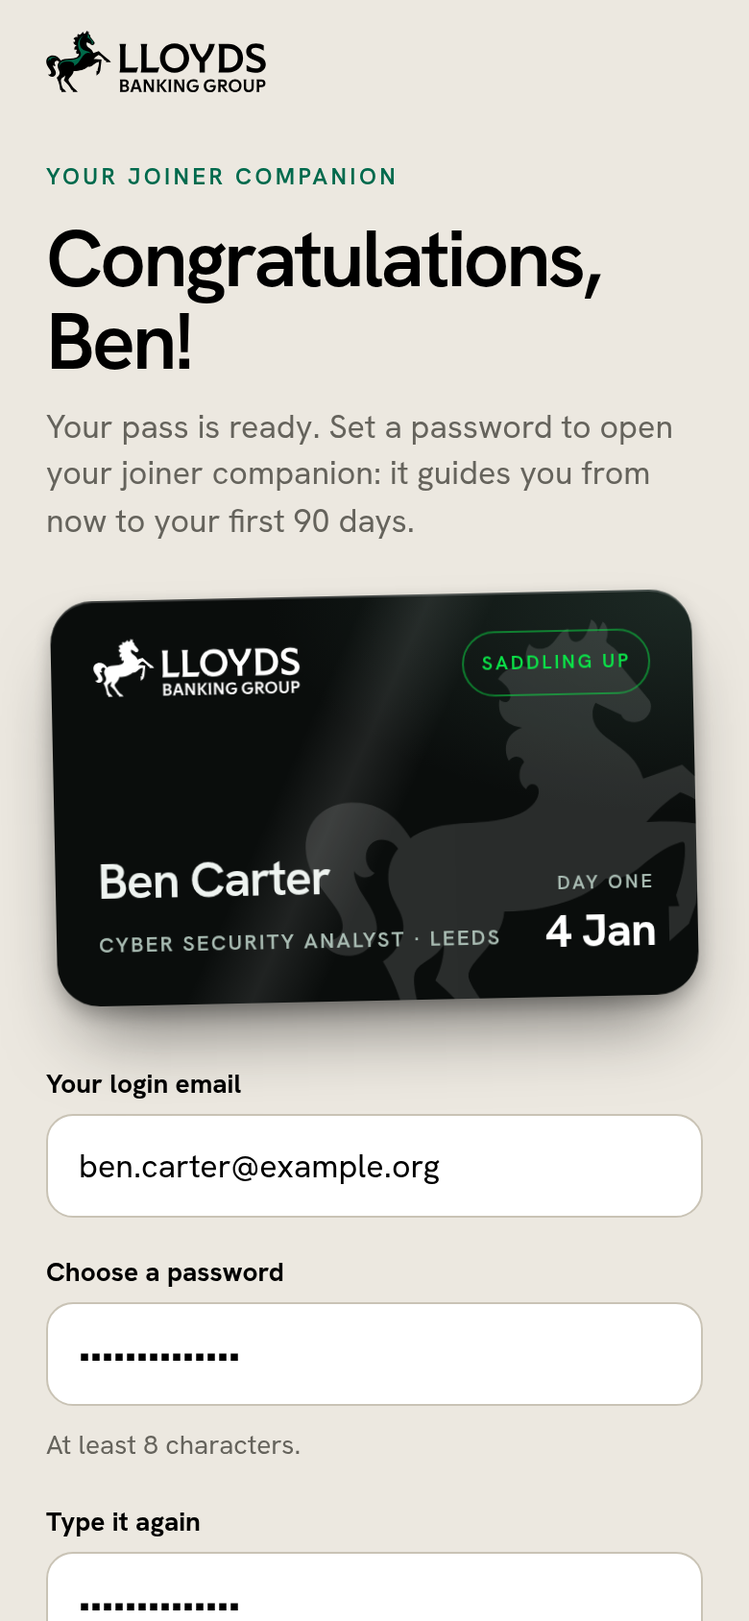
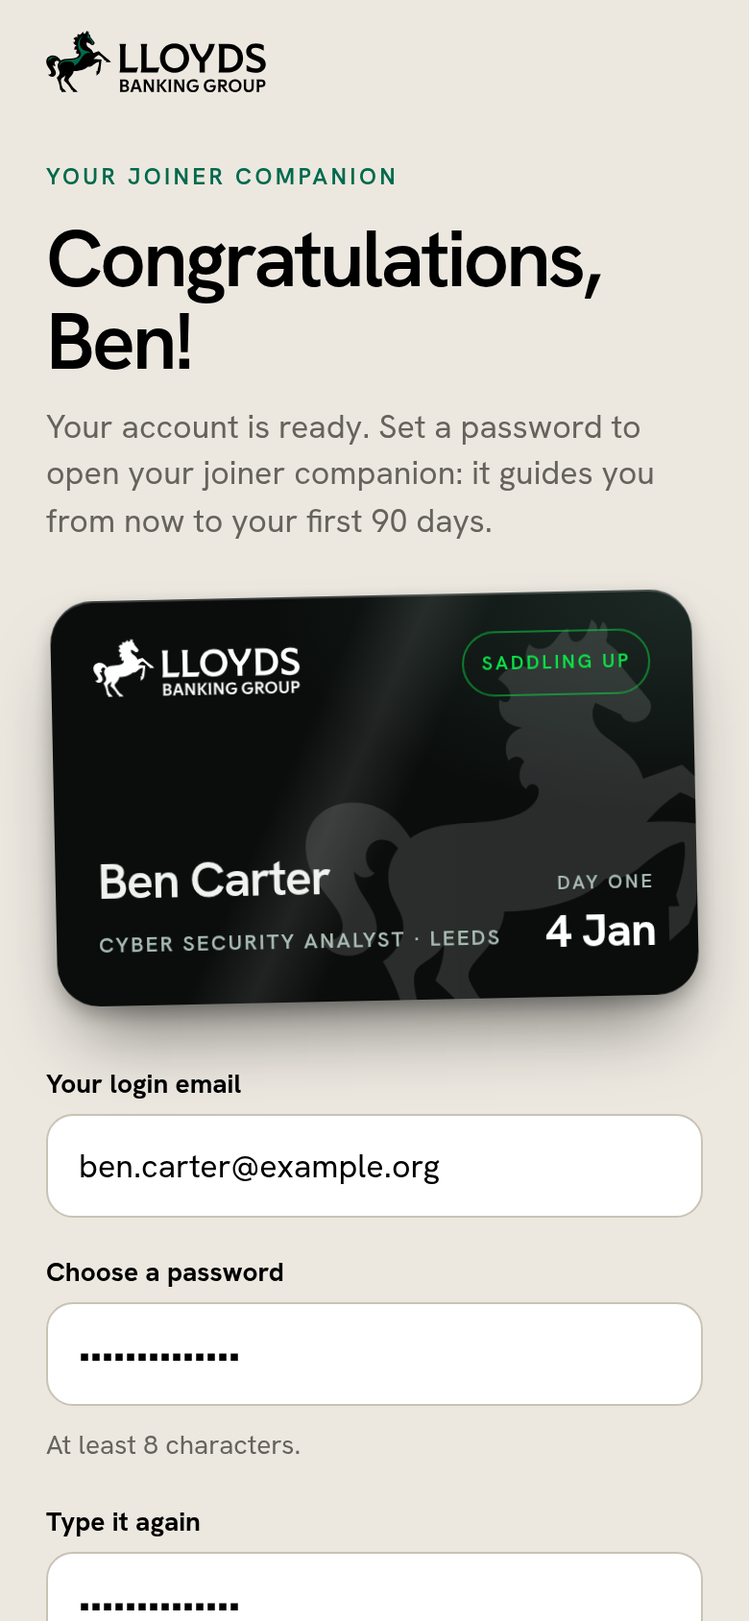
Reword the joiner app and pitch deck: no 'pass' for app access, no Preview labels (#29)
App: activation says 'account', login chip says 'Joiner app', photo page says
'Your photo' (building pass kept), phase 4 and 5 lose the Preview pill and note.
Deck: wording feedback on slides 1 to 13, new feature-summary closing slide,
screenshots recaptured for activation and phases 4 and 5.

Changed region(s): [[0.0615, 0.2464, 0.8923, 0.3389]]

diff --git a/docs/pitch-deck/index.html b/docs/pitch-deck/index.html
@@ -214,10 +214,10 @@ h2 { font-size: 72px; }
   <img class="horse r fade" src="assets/horse-white.svg" alt="">
   <img class="logo-big r" src="assets/lbg-logo-white.svg" alt="Lloyds Banking Group">
   <h1 class="r" style="--d:.15s">From offer<br>to Day 90.</h1>
-  <p class="lead r" style="--d:.35s">A joining companion that guides the recruit, and gives their recruiter and manager something useful to do.</p>
+  <p class="lead r" style="--d:.35s">A joining companion that guides the recruit, and makes communication between them, their recruiter and their manager easier.</p>
   <div class="pill r" style="--d:.55s"><i></i> LaunchPad '26 · Team destrict9</div>
   <div class="phone phone2 r pop" style="--d:.5s"><img src="assets/shots/08-ben-home.png" alt="Ben's home screen"></div>
-  <div class="phone r pop" style="--d:.7s"><img src="assets/shots/07-ben-welcome.png" alt="Ben's welcome screen with his pass card"></div>
+  <div class="phone r pop" style="--d:.7s"><img src="assets/shots/07-ben-welcome.png" alt="Ben's welcome screen"></div>
 </section>
 
 <!-- 2. PROBLEM -->
@@ -235,27 +235,26 @@ h2 { font-size: 72px; }
 
 <!-- 3. ANSWER -->
 <section class="slide stone" data-phase="0"
-  data-t="0:25" data-notes="Our answer is one journey in five phases, from offer to Day 90, and three people using it: the recruit on their phone, the recruiter and the hiring manager on a desktop hub. Phases 1 to 3 work end to end, and phases 4 and 5 are previews and we say so. Now let's meet Ben.">
+  data-t="0:25" data-notes="Our answer is one journey in five phases, from offer to Day 90, that keeps the colleague connected and engaged, and three people using it: the recruit on their phone, the recruiter and the hiring manager on a desktop hub. Phases 1 to 3 are shown end to end, followed by 4 and 5. Now let's meet Ben.">
   <img class="chrome-logo r" src="assets/lbg-logo.svg" alt="">
   <div class="head">
     <div class="eyebrow r">Our answer</div>
-    <h2 class="r" style="--d:.1s">One journey. Five phases. Three people.</h2>
+    <h2 class="r" style="--d:.1s">Five phases to keep every colleague connected and engaged.</h2>
   </div>
   <div class="tracker">
     <div class="line r fade" style="--d:.2s"></div>
     <div class="ph r" style="left:0; --d:.5s"><div class="dot">1</div><b>Offer</b><em>Saddling up</em></div>
     <div class="ph r" style="left:260px; --d:.7s"><div class="dot">2</div><b>Getting ready</b><em>Joining the stable</em></div>
     <div class="ph r" style="left:520px; --d:.9s"><div class="dot">3</div><b>First 30 days</b><em>Finding your stride</em></div>
-    <div class="ph r" style="left:780px; --d:1.1s"><div class="dot">4</div><b>30 to 60 days</b><em>Setting your course</em><u>Preview</u></div>
-    <div class="ph r" style="left:1040px; --d:1.3s"><div class="dot">5</div><b>60 to 90 days</b><em>Full horsepower</em><u>Preview</u></div>
+    <div class="ph r" style="left:780px; --d:1.1s"><div class="dot">4</div><b>30 to 60 days</b><em>Setting your course</em></div>
+    <div class="ph r" style="left:1040px; --d:1.3s"><div class="dot">5</div><b>60 to 90 days</b><em>Full horsepower</em></div>
   </div>
-  <div class="roles r" style="--d:1.5s"><span>Recruit · on a phone</span><span>Recruiter · desktop hub</span><span>Hiring manager · desktop hub</span></div>
-  <div class="phone r pop" style="left:1480px; top:290px; --w:330px; --d:.6s"><img src="assets/shots/26-ben-home-photo.png" alt="Ben's home screen with pass card and phase tracker"></div>
+  <div class="phone r pop" style="left:1480px; top:290px; --w:330px; --d:.6s"><img src="assets/shots/26-ben-home-photo.png" alt="Ben's home screen with phase tracker"></div>
 </section>
 
 <!-- 4. RECRUITER ONBOARDS -->
 <section class="slide stone" data-phase="1"
-  data-t="0:35" data-notes="Phase 1. Jordan is a recruiter. This is her applicants list, with the tiles up top and a table underneath. Ben Carter has accepted a verbal offer, so he's marked Successful. One click on Onboard, and a confirmation says exactly what will happen: Ben gets his conditional offer by email, a chat opens between them, and his account exists but stays switched off until he activates it.">
+  data-t="0:35" data-notes="Phase 1. Jordan is a recruiter. This is her applicants list, with the tiles up top and a table underneath. Ben Carter has accepted a verbal offer, so he's marked Successful. One click on Onboard, and a confirmation says exactly what will happen: Ben gets his conditional offer by email, a chat opens between them, and his account is created, ready for him to activate.">
   <img class="chrome-logo r" src="assets/lbg-logo.svg" alt="">
   <div class="actors r" style="--d:.3s"><div class="actor"><i>JE</i><span>Jordan Ellis<small>Recruiter</small></span></div></div>
   <div class="head"><div class="eyebrow r">Phase 1 · Offer</div><h2 class="r" style="--d:.1s">Jordan onboards Ben in one click.</h2></div>
@@ -264,29 +263,29 @@ h2 { font-size: 72px; }
   <ul class="points" style="left:1340px; top:310px; width:490px; gap:34px">
     <li class="r" style="--d:.8s">Ready to onboard<small>Ben: “Successful”, verbal offer accepted</small></li>
     <li class="r" style="--d:1.4s">One click, one offer<small>Sends the conditional offer and opens a private chat</small></li>
-    <li class="r" style="--d:2s">Account switched off<small>until Ben activates it himself</small></li>
+    <li class="r" style="--d:2s">Account created<small>Ben activates it himself when he is ready</small></li>
   </ul>
 </section>
 
 <!-- 5. BEN ARRIVES -->
 <section class="slide stone" data-phase="1"
-  data-t="0:30" data-notes="Ben gets an email. In production that's an email service, here it's a demo mailbox page, and we say so. The link works once and expires; we only store a hash of it. He sets a password, and lands on his welcome screen with his pass card: phase 1 of 5, Offer, with the line 'Saddling up', a tip and the one-minute Epic Journey film. The pass card fills in as he moves through the phases, with his start date as the card number.">
+  data-t="0:30" data-notes="Ben gets an email. In production that's an email service, here it's a demo mailbox page, and we say so. The link works once and expires; we only store a hash of it. He sets a password, and lands in his app account: phase 1 of 5, Offer, with the line 'Saddling up', a tip and the one-minute Epic Journey film. His card fills in as he moves through the phases, with his start date as the card number.">
   <img class="chrome-logo r" src="assets/lbg-logo.svg" alt="">
   <div class="actors r" style="--d:.3s"><div class="actor ben"><i>BC</i><span>Ben Carter<small>Recruit</small></span></div></div>
-  <div class="head"><div class="eyebrow r">Phase 1 · Offer</div><h2 class="r" style="--d:.1s">Ben gets an email, then a pass.</h2></div>
+  <div class="head"><div class="eyebrow r">Phase 1 · Offer</div><h2 class="r" style="--d:.1s">Ben gets an invitation to the app.</h2></div>
   <div class="win r slide-l" style="left:90px; top:380px; --w:760px; --d:.4s"><div class="bar"><b></b><b></b><b></b><em>Demo mailbox</em></div><img src="assets/shots/04-mailbox.png" alt="Demo mailbox with Ben's offer email"></div>
   <div class="cap r" style="left:90px; top:955px; --w:760px; --d:.9s; font-size:22px"><b>A stand-in for email</b></div>
   <div class="arrow" style="left:880px; top:600px; --d:1s"><svg viewBox="0 0 120 24"><path d="M4 12 H112 M98 2 L112 12 L98 22"/></svg></div>
   <div class="phone r pop" style="left:1030px; top:290px; --w:300px; --d:1.1s"><img src="assets/shots/06-ben-activate-filled.png" alt="Activation screen"></div>
   <div class="cap r" style="left:1030px; top:955px; --w:300px; --d:1.3s; font-size:22px"><b>One-time link</b></div>
   <div class="arrow" style="left:1370px; top:600px; width:90px; --d:1.45s"><svg viewBox="0 0 120 24"><path d="M4 12 H112 M98 2 L112 12 L98 22"/></svg></div>
-  <div class="phone r pop" style="left:1500px; top:290px; --w:300px; --d:1.5s"><img src="assets/shots/07-ben-welcome.png" alt="Welcome screen with pass card"></div>
-  <div class="cap r" style="left:1500px; top:955px; --w:300px; --d:1.7s; font-size:22px"><b>Pass card and film</b></div>
+  <div class="phone r pop" style="left:1500px; top:290px; --w:300px; --d:1.5s"><img src="assets/shots/07-ben-welcome.png" alt="Welcome screen"></div>
+  <div class="cap r" style="left:1500px; top:955px; --w:300px; --d:1.7s; font-size:22px"><b>His app account</b></div>
 </section>
 
 <!-- 6. OFFER + SCREENING -->
 <section class="slide stone" data-phase="1"
-  data-t="0:40" data-notes="Ben reads his conditional offer, terms and conditions, with advice not to resign yet. Accepting moves him to screening. We don't collect any personal details ourselves: they go straight to the screening company, ClearPath. When he confirms, he sees honest progress: what's being checked, the usual timeframe, and that no news is normal. And watch Jordan's table, on the right. It changed to 'Result needed' by itself, live.">
+  data-t="0:40" data-notes="Ben reads his conditional offer, terms and conditions, with advice not to hand in his notice yet. Accepting moves him to screening. We don't collect any personal details ourselves: they go straight to the screening company, ClearPath. When he confirms, he sees honest progress: what's being checked, the usual timeframe, and that no news is normal. And watch Jordan's table, on the right. It changed to 'Result needed' by itself, live.">
   <img class="chrome-logo r" src="assets/lbg-logo.svg" alt="">
   <div class="actors r" style="--d:.3s"><div class="actor ben"><i>BC</i><span>Ben Carter<small>Recruit</small></span></div><div class="actor"><i>JE</i><span>Jordan Ellis<small>Recruiter</small></span></div></div>
   <div class="head"><div class="eyebrow r">Phase 1 · Offer</div><h2 class="r" style="--d:.1s">Honest progress while the checks run.</h2></div>
@@ -302,7 +301,7 @@ h2 { font-size: 72px; }
 
 <!-- 7. RESULT UNLOCKS -->
 <section class="slide stone" data-phase="2"
-  data-t="0:35" data-notes="Here's the live moment. In real life the screening company sends this result. Jordan records it: Clear. And on Ben's phone, with no refresh, the card changes to 'Your unconditional offer is ready'. Now it's safe to resign, and accepting opens a chat with his hiring manager. Note the internal note that Jordan can add never reaches Ben.">
+  data-t="0:35" data-notes="Here's the live moment. In real life the screening company sends this result. Jordan records it: Clear. And on Ben's phone, the card changes to 'Your unconditional offer is ready'. Now it's safe to hand in his notice, and accepting opens a chat with his hiring manager. Note the internal note that Jordan can add never reaches Ben.">
   <img class="chrome-logo r" src="assets/lbg-logo.svg" alt="">
   <div class="actors r" style="--d:.3s"><div class="actor"><i>JE</i><span>Jordan Ellis<small>Recruiter</small></span></div><div class="actor ben"><i>BC</i><span>Ben Carter<small>Recruit</small></span></div></div>
   <div class="head"><div class="eyebrow r">Phase 2 · Getting ready</div><h2 class="r" style="--d:.1s">Jordan records the result. Ben’s phone changes.</h2></div>
@@ -311,22 +310,22 @@ h2 { font-size: 72px; }
   <div class="arrow" style="left:1080px; top:600px; --d:1.5s"><svg viewBox="0 0 120 24"><path d="M4 12 H112 M98 2 L112 12 L98 22"/></svg></div>
   <div class="phone r pop" style="left:1230px; top:290px; --w:330px; --d:1.7s"><img src="assets/shots/19-ben-unconditional-ready.png" alt="Ben's phone: unconditional offer ready"></div>
   <div class="live r pop" style="left:1590px; top:300px; --d:2.2s">Live</div>
-  <div class="cap r" style="left:1590px; top:400px; --w:240px; --d:2.2s; text-align:left; font-size:26px; font-weight:600">No refresh.<br>Now it’s safe to resign.</div>
+  <div class="cap r" style="left:1590px; top:400px; --w:240px; --d:2.2s; text-align:left; font-size:26px; font-weight:600">Now it’s safe to hand in your notice.</div>
 </section>
 
 <!-- 8. GETTING READY -->
 <section class="slide stone" data-phase="2"
-  data-t="0:35" data-notes="Ben accepts, and phase 2 unlocks early choices. He picks a laptop, with a recommendation for his role, changeable until a week before he starts. He adds a pass photo, so reception can print his building pass before Day 1, and it shows on his pass card. And the choice flows to Sam, his manager, who sees it in his checklist. We'll come back to that.">
+  data-t="0:35" data-notes="Ben accepts, and phase 2 unlocks early choices. He picks a laptop, with a recommendation for his role, changeable until a week before he starts. He adds a photo, so reception can print his building pass before Day 1, and it shows on his home screen. And the choice flows to Sam, his manager, who sees it in his checklist. We'll come back to that.">
   <img class="chrome-logo r" src="assets/lbg-logo.svg" alt="">
   <div class="actors r" style="--d:.3s"><div class="actor ben"><i>BC</i><span>Ben Carter<small>Recruit</small></span></div></div>
-  <div class="head"><div class="eyebrow r">Phase 2 · Getting ready</div><h2 class="r" style="--d:.1s">Early choices, so Day 1 has no queue.</h2></div>
+  <div class="head"><div class="eyebrow r">Phase 2 · Getting ready</div><h2 class="r" style="--d:.1s">Early choices, so Day 1 has no delays.</h2></div>
   <div class="phone r pop" style="left:90px; top:290px; --w:300px; --d:.4s"><img src="assets/shots/23-ben-laptop-selected.png" alt="Choose your laptop"></div>
   <div class="cap r" style="left:90px; top:955px; --w:300px; --d:.9s; font-size:22px"><b>Choose a laptop</b></div>
-  <div class="phone r pop" style="left:440px; top:290px; --w:300px; --d:.8s"><img src="assets/shots/26-ben-home-photo.png" alt="Pass card with photo"></div>
-  <div class="cap r" style="left:440px; top:955px; --w:300px; --d:1.3s; font-size:22px"><b>Add a pass photo</b></div>
+  <div class="phone r pop" style="left:440px; top:290px; --w:300px; --d:.8s"><img src="assets/shots/26-ben-home-photo.png" alt="Home screen with photo"></div>
+  <div class="cap r" style="left:440px; top:955px; --w:300px; --d:1.3s; font-size:22px"><b>Add a photo</b></div>
   <ul class="points" style="left:850px; top:300px; width:980px; gap:30px">
     <li class="r" style="--d:1s">Recommended for his role<small>HP EliteBook for a Cyber Security Analyst. He can change it until a week before he starts.</small></li>
-    <li class="r" style="--d:1.5s">A selfie for his building pass<small>Reception prints it ahead of Day 1, and it shows on his pass card. He can retake it later.</small></li>
+    <li class="r" style="--d:1.5s">A photo for his building pass<small>Reception prints it ahead of Day 1, and it shows on his home screen. He can retake it later.</small></li>
   </ul>
   <div class="win r pop" style="left:850px; top:700px; --w:960px; --d:2.1s"><div class="bar"><b></b><b></b><b></b><em>Sam’s Day 1 checklist</em></div><div class="crop" style="height:230px"><img src="assets/shots/36-sam-checklist-ben.png" style="left:-670px; top:-212px; width:1630px" alt="Sam's checklist showing Ben chose the HP EliteBook"></div></div>
   <div class="tag lime r pop" style="left:1380px; top:652px; --d:2.6s">…and it flows to Sam</div>
@@ -334,10 +333,10 @@ h2 { font-size: 72px; }
 
 <!-- 9. MANAGER CHAT -->
 <section class="slide stone" data-phase="2"
-  data-t="0:35" data-notes="Accepting also opens a private chat with his hiring manager, so Ben meets Sam before he meets Sam. Ben asks what to read before he starts. On the left is Ben's phone, on the right is Sam's hub. Sam sees the unread badge, a typing indicator while Ben types, and replies. It's all live over websockets, and each chat is private between the joiner and that person.">
+  data-t="0:35" data-notes="Accepting also opens a private chat with his hiring manager, so Ben connects with Sam before he meets him. Ben asks what to read before he starts. On the left is Ben's phone, on the right is Sam's hub. Sam sees the unread badge, a typing indicator while Ben types, and replies. It's all live over websockets, and each chat is private between the joiner and that person.">
   <img class="chrome-logo r" src="assets/lbg-logo.svg" alt="">
   <div class="actors r" style="--d:.3s"><div class="actor ben"><i>BC</i><span>Ben Carter<small>Recruit</small></span></div><div class="actor sam"><i>SR</i><span>Sam Reid<small>Hiring manager</small></span></div></div>
-  <div class="head"><div class="eyebrow r">Phase 2 · Getting ready</div><h2 class="r" style="--d:.1s">Meet your manager before you meet.</h2></div>
+  <div class="head"><div class="eyebrow r">Phase 2 · Getting ready</div><h2 class="r" style="--d:.1s">Connect with your manager before Day 1.</h2></div>
   <div class="phone r pop" style="left:90px; top:290px; --w:320px; --d:.4s"><img src="assets/shots/34-ben-reply-arrived.png" alt="Ben's chat with Sam"></div>
   <div class="win r slide-r" style="left:480px; top:290px; --w:1050px; --d:.7s"><div class="bar"><b></b><b></b><b></b><em>Manager hub · Messages</em></div><img src="assets/shots/33-sam-replied.png" alt="Sam's inbox with Ben's chat"></div>
   <div class="live r pop" style="left:1390px; top:232px; --d:1.4s">Live</div>
@@ -350,10 +349,10 @@ h2 { font-size: 72px; }
 
 <!-- 10. CHAIN REACTION -->
 <section class="slide stone" data-phase="2"
-  data-t="0:40" data-notes="This is the chain reaction. Sam's Day 1 checklist has due dates counted back from the start date, and Ben's laptop choice is already in it. Some items tick themselves: the welcome message ticked the moment Sam replied. Sam fills in the Day 1 details: start time, where to meet, who meets him, dress code, a number to call. He hits Share, and on Ben's phone, a 'Your first day' panel appears at the top of his guides. One person's action unlocks the next person's view.">
+  data-t="0:40" data-notes="This is the chain reaction. Sam's Day 1 checklist has due dates counted back from the start date, and Ben's laptop choice is already in it. Some items tick themselves: the welcome message ticked the moment Sam replied. Sam fills in the Day 1 details: start time, where to meet, who meets him, dress code, a number to call. He hits Share, and on Ben's phone, a 'Your first day' panel appears at the top of his guides. The manager's action is shown straight to the recruit.">
   <img class="chrome-logo r" src="assets/lbg-logo.svg" alt="">
   <div class="actors r" style="--d:.3s"><div class="actor sam"><i>SR</i><span>Sam Reid<small>Hiring manager</small></span></div><div class="actor ben"><i>BC</i><span>Ben Carter<small>Recruit</small></span></div></div>
-  <div class="head"><div class="eyebrow r">Phase 2 · Getting ready</div><h2 class="r" style="--d:.1s">One action unlocks the next person’s view.</h2></div>
+  <div class="head"><div class="eyebrow r">Phase 2 · Getting ready</div><h2 class="r" style="--d:.1s">Sam shares Day 1 details. Ben sees them straight away.</h2></div>
   <div class="win r slide-l" style="left:90px; top:290px; --w:960px; --d:.4s"><div class="bar"><b></b><b></b><b></b><em>Manager hub · Day 1 checklist</em></div><img src="assets/shots/37-sam-day1-form.png" alt="Sam fills in Day 1 details"></div>
   <div class="tag r pop" style="left:130px; top:880px; --d:1.2s">Due dates count back from the start date</div>
   <div class="arrow" style="left:1075px; top:600px; --d:1.7s"><svg viewBox="0 0 120 24"><path d="M4 12 H112 M98 2 L112 12 L98 22"/></svg></div>
@@ -375,20 +374,20 @@ h2 { font-size: 72px; }
   <ul class="points" style="left:850px; top:300px; width:980px; gap:34px">
     <li class="r" style="--d:1.1s">Answers only from our guides<small>Fictional documents, not real bank policy.</small></li>
     <li class="r" style="--d:1.6s">Shows its sources<small>Every answer links back to the guide it came from.</small></li>
-    <li class="r" style="--d:2.1s">Knows Sam’s Day 1 details<small>“9:30am, ground floor reception, Sam meets you.”</small></li>
+    <li class="r" style="--d:2.1s">Knows Ben’s Day 1 details<small>“9:30am, ground floor reception, and you’re meeting Sam.”</small></li>
     <li class="r" style="--d:2.6s">Hands over to a person<small>When it can’t answer, or the question is about Ben’s own case.</small></li>
   </ul>
 </section>
 
 <!-- 12. AFTER DAY 1 -->
 <section class="slide stone" data-phase="3"
-  data-t="0:20" data-notes="After Day 1 it keeps going. Ruby is on Day 16: phase 3, what to do now, the guides, and mandatory training. Tom is 6 weeks in: phase 4, setting goals and a development plan. Phase 5 is growing your Lloyds career. Phases 4 and 5 are previews and we say so on the screen.">
+  data-t="0:20" data-notes="After Day 1 it keeps going. Ruby is on Day 16: phase 3, what to do now, the guides, and mandatory training. Tom is 6 weeks in: phase 4, setting goals and a development plan. Phase 5 is growing your Lloyds career.">
   <img class="chrome-logo r" src="assets/lbg-logo.svg" alt="">
   <div class="actors r" style="--d:.3s"><div class="actor"><i>RA</i><span>Ruby · Day 16<small>Recruit</small></span></div><div class="actor"><i>TB</i><span>Tom · Day 44<small>Recruit</small></span></div></div>
   <div class="head"><div class="eyebrow r">Phases 3 to 5</div><h2 class="r" style="--d:.1s">After Day 1, it keeps going.</h2></div>
   <ul class="points" style="left:90px; top:320px; width:520px; gap:30px">
     <li class="r" style="--d:1.3s;font-size:28px">What to do now<small style="font-size:23px">Mandatory training, guides, the 30-day check-in.</small></li>
-    <li class="r" style="--d:1.8s;font-size:28px">Goals and a plan<small style="font-size:23px">Phases 4 and 5 are previews, labelled as such.</small></li>
+    <li class="r" style="--d:1.8s;font-size:28px">Goals and a plan<small style="font-size:23px">Setting goals, a development plan and growing a career.</small></li>
   </ul>
   <div class="phone r pop" style="left:680px; top:290px; --w:300px; --d:.4s"><img src="assets/shots/44-ruby-phase3.png" alt="Phase 3: First 30 days"></div>
   <div class="cap r" style="left:680px; top:955px; --w:300px; --d:.9s; font-size:22px"><b>3 · Finding your stride</b></div>

diff --git a/app/public/joiner/phase.html b/app/public/joiner/phase.html
@@ -20,8 +20,6 @@
     .phases a[aria-current="page"] .now { color: inherit; opacity: .8; }
     .jhead h1 { display: flex; flex-wrap: wrap; align-items: center; column-gap: var(--lbg-space-2); }
     .jhead .line { font-style: italic; opacity: .85; margin-top: var(--lbg-space-1); }
-    .preview { display: inline-block; padding: 2px 8px; line-height: 1.6; border-radius: var(--lbg-radius-pill); background: var(--lbg-mint, #e0f2ea); color: var(--lbg-heritage-green); font-size: 12px; font-family: var(--lbg-font-strong); font-weight: 700; letter-spacing: .06em; text-transform: uppercase; vertical-align: middle; }
-    .preview-note { font-size: var(--lbg-text-sm); color: var(--lbg-grey-600); margin: 0 0 var(--lbg-space-4); }
     .todo { list-style: none; margin: 0; padding: 0; display: grid; gap: var(--lbg-space-3); counter-reset: todo; }
     .todo li { counter-increment: todo; }
     .todo .t { display: flex; gap: var(--lbg-space-3); align-items: flex-start; background: var(--lbg-white); border-radius: 18px; box-shadow: var(--lbg-shadow-card); padding: var(--lbg-space-4); color: inherit; text-decoration: none; min-height: 44px; }
@@ -60,7 +58,6 @@
   <main class="jbody">
     <section aria-labelledby="todo-h">
       <h2 id="todo-h">What to do now</h2>
-      <p class="preview-note" id="preview-note" hidden>A preview of what’s coming. We’ll guide you through it when you get there.</p>
       <ol class="todo" id="todo"></ol>
     </section>
     <section aria-labelledby="guides-h" id="guides-sec">
@@ -107,15 +104,9 @@
     $('phases').querySelector('[aria-current]')?.scrollIntoView({ inline: 'center', block: 'nearest' });
 
     $('eyebrow').textContent = `Phase ${p.n} of ${PHASES.length}${isNow ? ' · You are here' : ''}`;
-    $('title').replaceChildren(p.name, ...(p.preview ? [make('span', { className: 'preview', textContent: 'Preview' })] : []));
+    $('title').replaceChildren(p.name);
     $('intro').textContent = p.intro;
     $('line').textContent = p.line;
-    // Previews are honest about being previews, but if this IS their phase, don't tell them "when you get there".
-    const mgr = journey?.offer?.hiringManager?.split(' ')[0] ?? 'your manager';
-    $('preview-note').textContent = isNow
-      ? `Here’s what this phase looks like. Talk it through with ${mgr}.`
-      : 'A preview of what’s coming. We’ll guide you through it when you get there.';
-    $('preview-note').hidden = !p.preview;
     document.title = `${p.name} · Joiner companion`;
 
     $('todo').replaceChildren(...p.todo.map((t) => {

diff --git a/app/public/joiner/photo.html b/app/public/joiner/photo.html
@@ -4,7 +4,7 @@
   <meta charset="utf-8">
   <meta name="viewport" content="width=device-width, initial-scale=1, viewport-fit=cover">
   <meta name="theme-color" content="#ece8e0">
-  <title>Your pass photo · Joiner companion</title>
+  <title>Your photo · Joiner companion</title>
   <link rel="icon" href="/brand/logos/favicon.ico">
   <link rel="stylesheet" href="/brand/tokens.css">
   <link rel="stylesheet" href="/css/app.css">
@@ -25,7 +25,7 @@
     </div>
     <div class="jhead lbg-surface--pattern">
       <p class="eyebrow">Your building pass</p>
-      <h1 id="title">Add your pass photo</h1>
+      <h1 id="title">Add your photo</h1>
       <p id="lead">Reception prints your building pass with this photo, ready for you on Day 1.</p>
     </div>
   </header>
@@ -40,7 +40,7 @@
     <p class="bpass-note">How your printed building pass will look.</p>
 
     <section id="not-yet" hidden>
-      <p>You can add your pass photo once you've accepted your unconditional offer.</p>
+      <p>You can add your photo once you've accepted your unconditional offer.</p>
       <a class="lbg-btn lbg-btn--primary" href="/joiner/">Back to your journey</a>
     </section>
 
@@ -81,10 +81,10 @@
     $('take').hidden = false;
     show(passPhotoUrl(j));
     if (j.photo.has) {
-      $('title').textContent = 'Your pass photo';
+      $('title').textContent = 'Your photo';
       $('take-label').textContent = 'Retake your photo';
       $('back').hidden = false;
-      $('lead').textContent = "You can retake it any time. If your pass has already been printed, reception will print a new one.";
+      $('lead').textContent = "You can retake it any time. If your building pass has already been printed, reception will print a new one.";
     }
   }
 
@@ -127,10 +127,10 @@
       await api('/api/journey/photo', { method: 'POST', body: JSON.stringify({ image: pending }) });
       pending = null;
       $('save').hidden = true;
-      $('title').textContent = 'Your pass photo';
+      $('title').textContent = 'Your photo';
       $('take-label').textContent = 'Retake your photo';
       $('back').hidden = false;
-      $('status').textContent = "Saved. Reception will have your pass ready on Day 1.";
+      $('status').textContent = "Saved. Reception will have your building pass ready on Day 1.";
     } catch (err) {
       $('status').textContent = err.message || "Couldn't save your photo. Please try again.";
     } finally {

diff --git a/app/public/activate.html b/app/public/activate.html
@@ -26,7 +26,7 @@
     <p class="eyebrow">Your joiner companion</p>
     <h1 id="title">Welcome aboard</h1>
     <p class="lead" id="lead">Checking your link…</p>
-    <div class="pass" id="pass" aria-label="Your joiner pass" hidden>
+    <div class="pass" id="pass" aria-label="Your joiner card" hidden>
       <img class="horse" src="/brand/logos/horse-white.svg" alt="">
       <div class="pass-top"><img src="/brand/logos/lbg-logo-white.svg" alt="Lloyds Banking Group"><span class="chip">Saddling up</span></div>
       <div class="pass-who">
@@ -84,7 +84,7 @@
   } else {
     const i = data.invite;
     $('title').textContent = `Congratulations, ${i.name.split(' ')[0]}!`;
-    $('lead').textContent = 'Your pass is ready. Set a password to open your joiner companion: it guides you from now to your first 90 days.';
+    $('lead').textContent = 'Your account is ready. Set a password to open your joiner companion: it guides you from now to your first 90 days.';
     // Their pass, with their name on it: the same card they'll see on the home screen.
     $('pass-name').textContent = i.name;
     $('pass-role').textContent = [i.jobTitle, i.location].filter(Boolean).join(' · ');

diff --git a/app/public/login.html b/app/public/login.html
@@ -43,7 +43,7 @@
     <p class="lead">Everything you need to join us, and your manager one message away.</p>
     <div class="pass" aria-hidden="true">
       <img class="horse" src="/brand/logos/horse-white.svg" alt="">
-      <div class="pass-top"><img src="/brand/logos/lbg-logo-white.svg" alt=""><span class="chip">Joiner pass</span></div>
+      <div class="pass-top"><img src="/brand/logos/lbg-logo-white.svg" alt=""><span class="chip">Joiner app</span></div>
       <div class="pass-who">
         <div><div class="nm">Your name here</div><div class="rl">Saddling up to full horsepower</div></div>
         <div class="no">Phases<b>5</b></div>

diff --git a/app/public/js/pass-sections.js b/app/public/js/pass-sections.js
@@ -40,7 +40,7 @@ export function mountPassSections(pass) {
     const n = j?.phase?.n ?? 1;
     mask.style.left = `${n * 20}%`;
     mask.hidden = n >= 5;
-    pass.setAttribute('aria-label', `Your joiner pass: phase ${n} of 5${j?.phase?.name ? `, ${j.phase.name}` : ''}`);
+    pass.setAttribute('aria-label', `Your joiner card: phase ${n} of 5${j?.phase?.name ? `, ${j.phase.name}` : ''}`);
     const started = Boolean(j?.dayNumber);
     corner.hidden = !started && j?.daysToStart == null;
     cornerLabel.textContent = started ? 'Today is day' : 'Days to go';

diff --git a/app/public/joiner/index.html b/app/public/joiner/index.html
@@ -45,7 +45,7 @@
     <p class="eyebrow">Your joining journey</p>
     <h1 id="hello">Welcome</h1>
     <p id="job"></p>
-    <div class="pass" id="pass" aria-label="Your joiner pass" hidden>
+    <div class="pass" id="pass" aria-label="Your joiner card" hidden>
       <img class="horse" src="/brand/logos/horse-white.svg" alt="">
       <div class="pass-top"><img src="/brand/logos/lbg-logo-white.svg" alt="Lloyds Banking Group"><span class="chip" id="pass-chip">Pre-boarding</span></div>
       <div class="pass-who">
